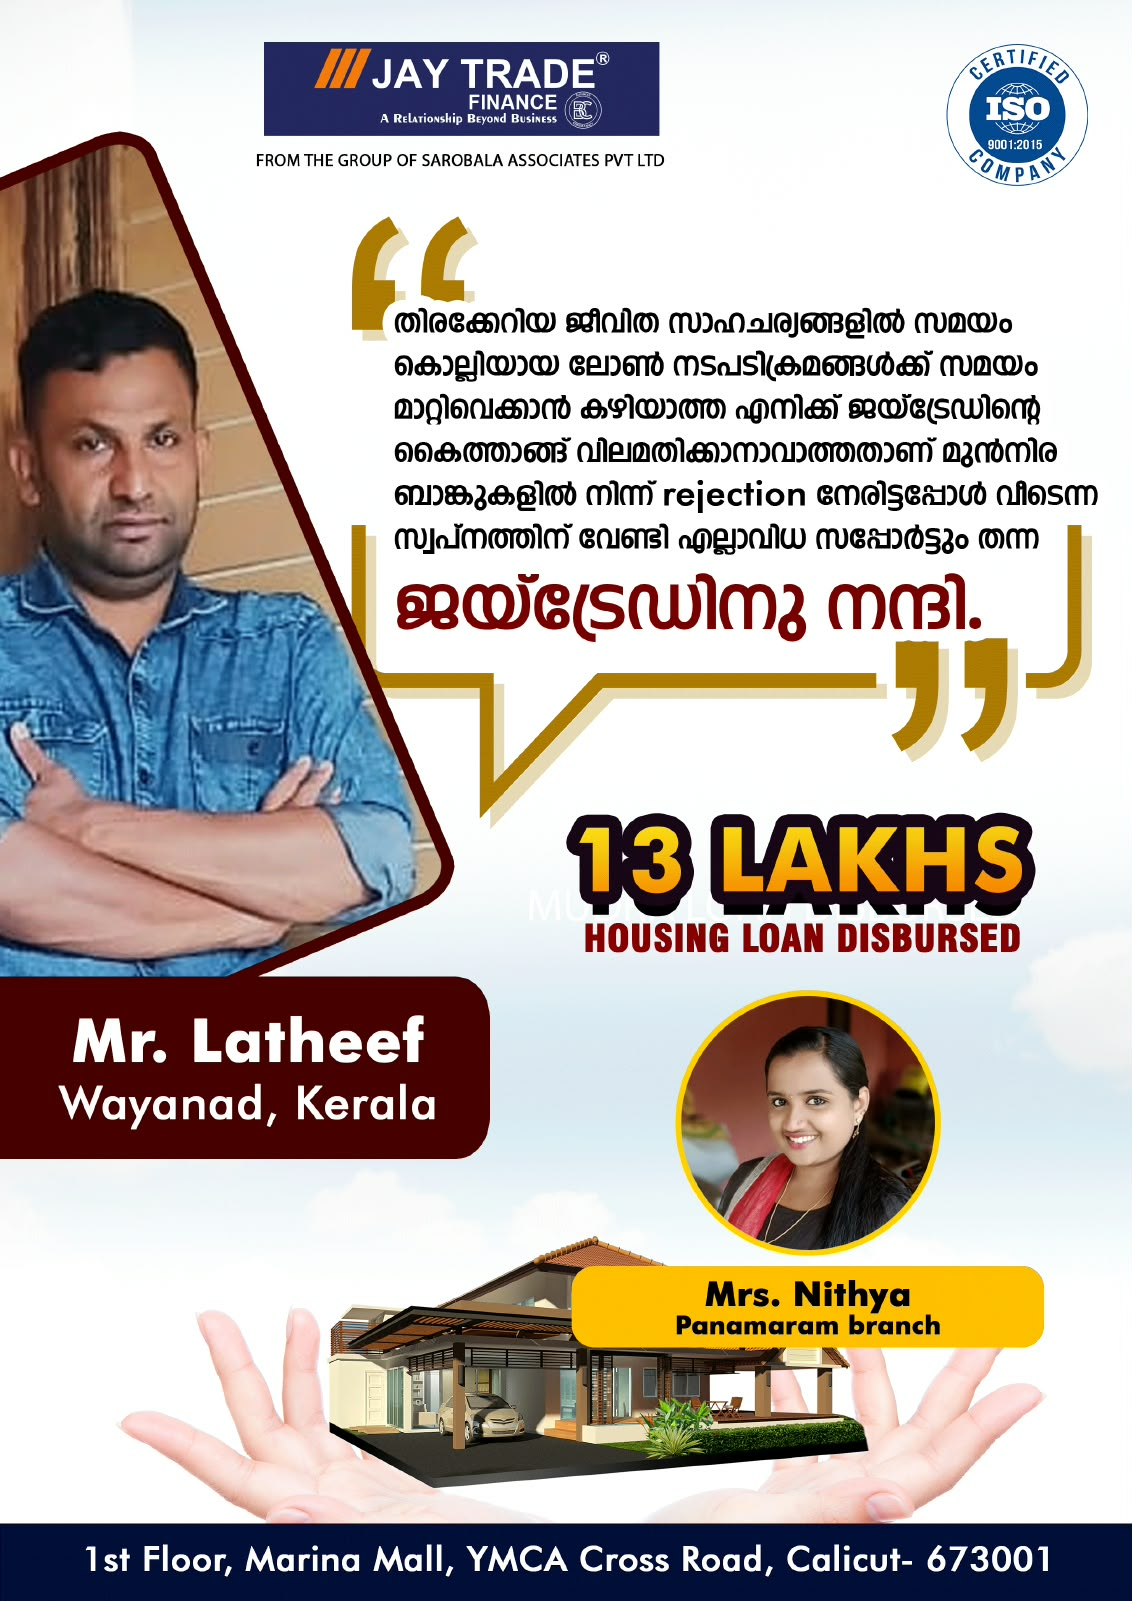
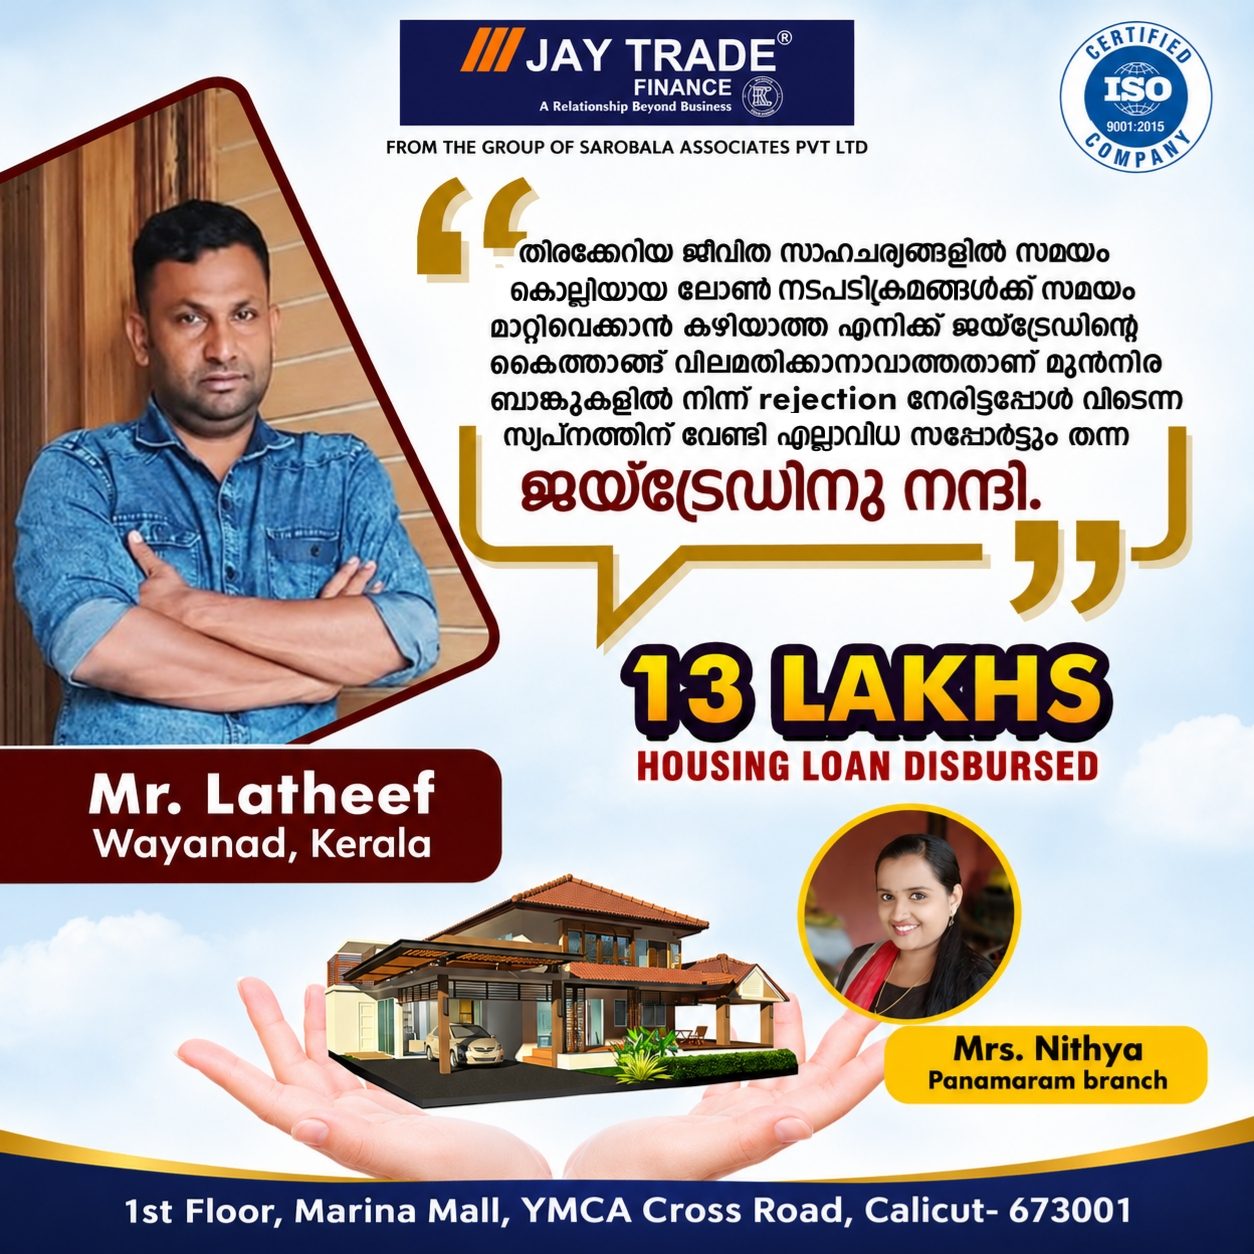
Update website

diff --git a/frontend-react/src/pages/Home.css b/frontend-react/src/pages/Home.css
@@ -6374,6 +6374,7 @@
 }
 
 
+
 /* =====================================
    HOMEPAGE PROMOTIONAL BANNER
 ===================================== */
@@ -6382,6 +6383,7 @@
   width: 100%;
   max-width: 1920px;
   aspect-ratio: 16 / 9;
+  height: auto;
   margin: 55px auto 40px;
   position: relative;
   overflow: hidden;
@@ -6393,28 +6395,32 @@
   display: block;
   width: 100%;
   height: 100%;
-  object-fit: cover;
+  object-fit: contain;
   object-position: center;
 }
 
 /* Tablet */
-
 @media (max-width: 768px) {
   .indipay-home-banner {
-    margin: 35px auto 25px;
+    width: 100%;
+    aspect-ratio: 16 / 9;
+    height: auto;
+    margin: 25px auto 20px;
     border-radius: 10px;
   }
 }
 
 /* Mobile */
-
 @media (max-width: 480px) {
   .indipay-home-banner {
-    aspect-ratio: 4 / 3;
-    margin: 25px auto 20px;
+    width: 100%;
+    aspect-ratio: 16 / 9;
+    height: auto;
+    margin: 20px auto 15px;
     border-radius: 8px;
   }
 }
+
 
 
 /* Larger icons in selected service category */

diff --git a/backend/server.js b/backend/server.js
@@ -233,13 +233,27 @@ if (application.userId !== req.user.id) {
             },
         });
 
-        const result = await response.json();
+        const responseText = await response.text();
 
-        if (!response.ok || !result.success) {
-            throw new Error(
-                result.error || "Could not retrieve Jaytrade status."
-            );
-        }
+console.log("Jaytrade HTTP status:", response.status);
+console.log("Jaytrade Content-Type:", response.headers.get("content-type"));
+console.log("Jaytrade raw response:", responseText);
+
+let result;
+
+try {
+    result = JSON.parse(responseText);
+} catch (parseError) {
+    throw new Error(
+        `Jaytrade returned invalid JSON. HTTP ${response.status}`
+    );
+}
+
+if (!response.ok || !result.success) {
+    throw new Error(
+        result.error || result.message || "Could not retrieve Jaytrade status."
+    );
+}
 
         // 4. Return application and employee details
         return res.json({

diff --git a/frontend-react/src/pages/ServiceDetail.css b/frontend-react/src/pages/ServiceDetail.css
@@ -1935,15 +1935,15 @@
   }
 }
 
-/* SQUARE STORYBOARD - SECURED BUSINESS LOAN */
+/* SQUARE STORYBOARDS - ALL FINANCIAL SERVICES */
 
-.indipay-simple-storyboard-slider.secured-storyboard {
+.indipay-simple-storyboard-slider.financial-storyboard {
   width: min(850px, 100%);
   aspect-ratio: 1 / 1;
   height: auto;
 }
 
-.indipay-simple-storyboard-slider.secured-storyboard > img {
+.indipay-simple-storyboard-slider.financial-storyboard > img {
   width: 100%;
   height: 100%;
   object-fit: contain;
@@ -1951,7 +1951,7 @@
 
 /* Mobile */
 @media (max-width: 600px) {
-  .indipay-simple-storyboard-slider.secured-storyboard {
+  .indipay-simple-storyboard-slider.financial-storyboard {
     width: 100%;
     aspect-ratio: 1 / 1;
     height: auto;

diff --git a/frontend-react/src/pages/ServiceDetail.jsx b/frontend-react/src/pages/ServiceDetail.jsx
@@ -609,10 +609,8 @@ const handleBottomTab = (label) => {
           {storyboardSlides.length > 0 ? (
             <div
   className={`indipay-simple-storyboard-slider ${
-    service?.name === "Business Loan – Secured"
-      ? "secured-storyboard"
-      : ""
-  }`}
+  financialServices[service?.name] ? "financial-storyboard" : ""
+}`}
 >
 
               <img
